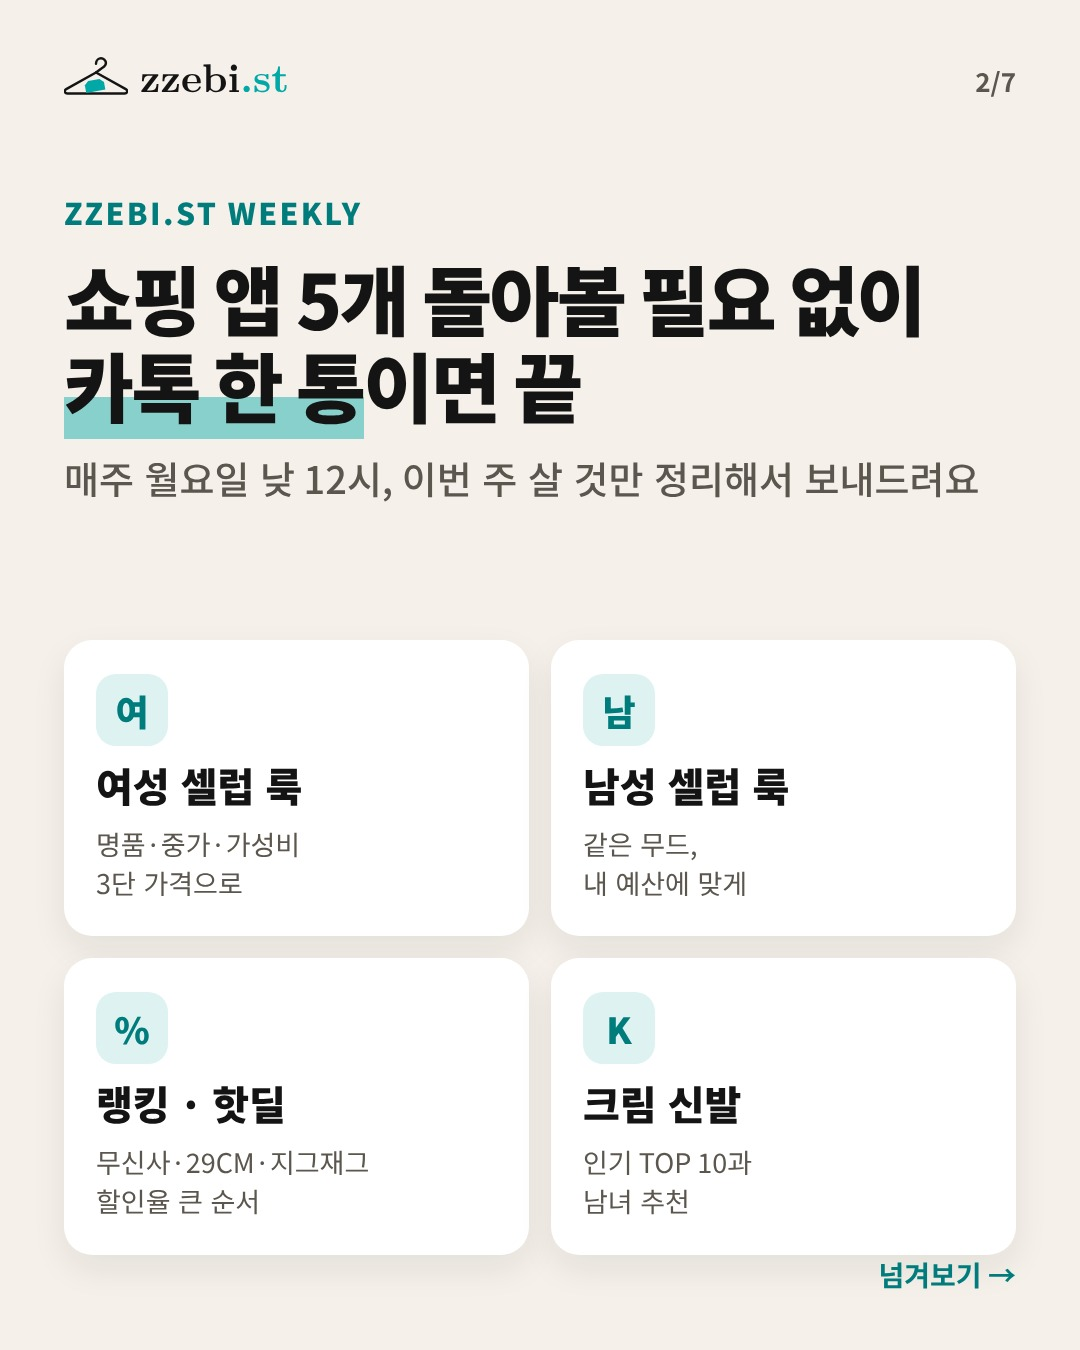
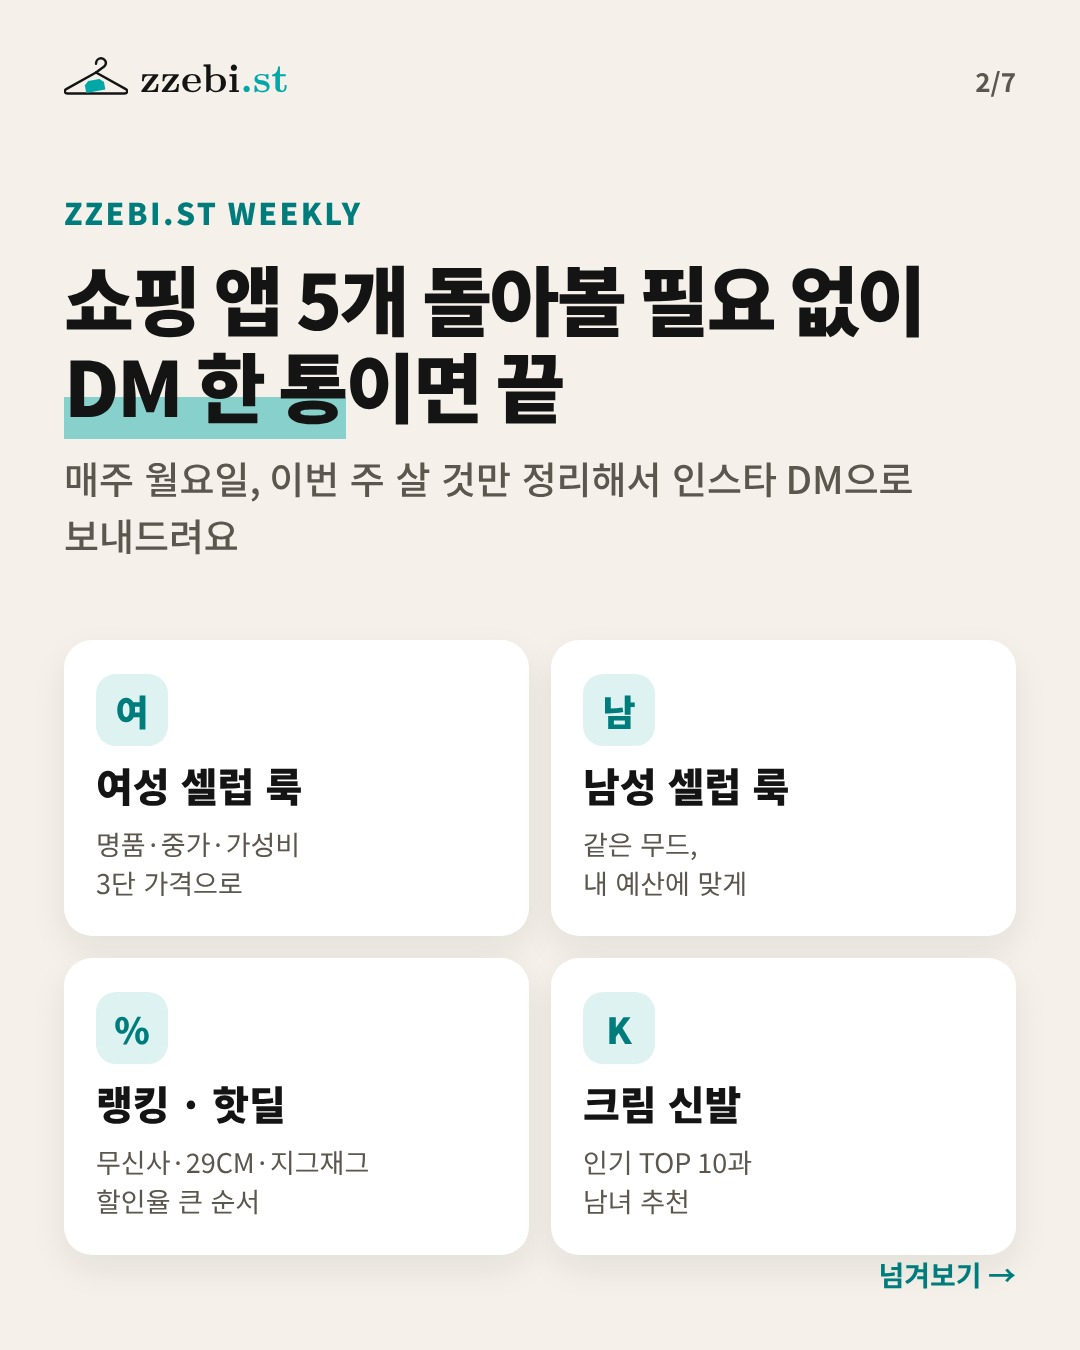
무료 오픈 캐러셀: 카톡 대신 인스타 DM으로 문구 변경
Claude-Session: https://claude.ai/code/session_012j9R8CjTkj6cUiA6UzqAYN

Changed region(s): [[0.0611, 0.2489, 0.9167, 0.3733], [0.0611, 0.3733, 0.2139, 0.4044]]

diff --git a/studio/free-launch/car.html b/studio/free-launch/car.html
@@ -74,8 +74,8 @@ h2{font-size:76px;font-weight:900;line-height:1.15;letter-spacing:-2.5px}
  <div class="pg">2/7</div>
  <div style="position:absolute;left:64px;right:64px;top:190px;display:flex;flex-direction:column;gap:20px">
   <div class="k">ZZEBI.ST WEEKLY</div>
-  <h2>쇼핑 앱 5개 돌아볼 필요 없이<br><span class="hl">카톡 한 통</span>이면 끝</h2>
-  <p class="lead">매주 월요일 낮 12시, 이번 주 살 것만 정리해서 보내드려요</p>
+  <h2>쇼핑 앱 5개 돌아볼 필요 없이<br><span class="hl">DM 한 통</span>이면 끝</h2>
+  <p class="lead">매주 월요일, 이번 주 살 것만 정리해서 인스타 DM으로 보내드려요</p>
  </div>
  <div class="menu" style="position:absolute;left:64px;right:64px;top:640px">
   <div class="card"><div class="ic">여</div><h3>여성 셀럽 룩</h3><p>명품·중가·가성비<br>3단 가격으로</p></div>
@@ -170,6 +170,6 @@ h2{font-size:76px;font-weight:900;line-height:1.15;letter-spacing:-2.5px}
   <div class="card step"><span class="no">1</span><div><h3>@zzebi.st 팔로우</h3><p>팔로워에게만 보내드려요</p></div></div>
   <div class="card step"><span class="no">2</span><div><h3>댓글에 <span style="color:var(--brandD)">'리포트'</span></h3><p>DM으로 이번 주 리포트 링크가 바로 와요</p></div></div>
  </div>
- <div style="position:absolute;left:64px;right:64px;bottom:120px;font-size:30px;color:#c9d6d5;line-height:1.55">카톡 채널을 추가하면 매주 월요일 낮 12시에 자동으로 받아요.<br>저장해두고 월요일에 다시 보기</div>
+ <div style="position:absolute;left:64px;right:64px;bottom:120px;font-size:30px;color:#c9d6d5;line-height:1.55">매주 월요일 새 리포트가 나와요.<br>그때도 댓글이나 DM에 '리포트'만 남기면 바로 보내드려요.</div>
 </section>
 </body></html>
